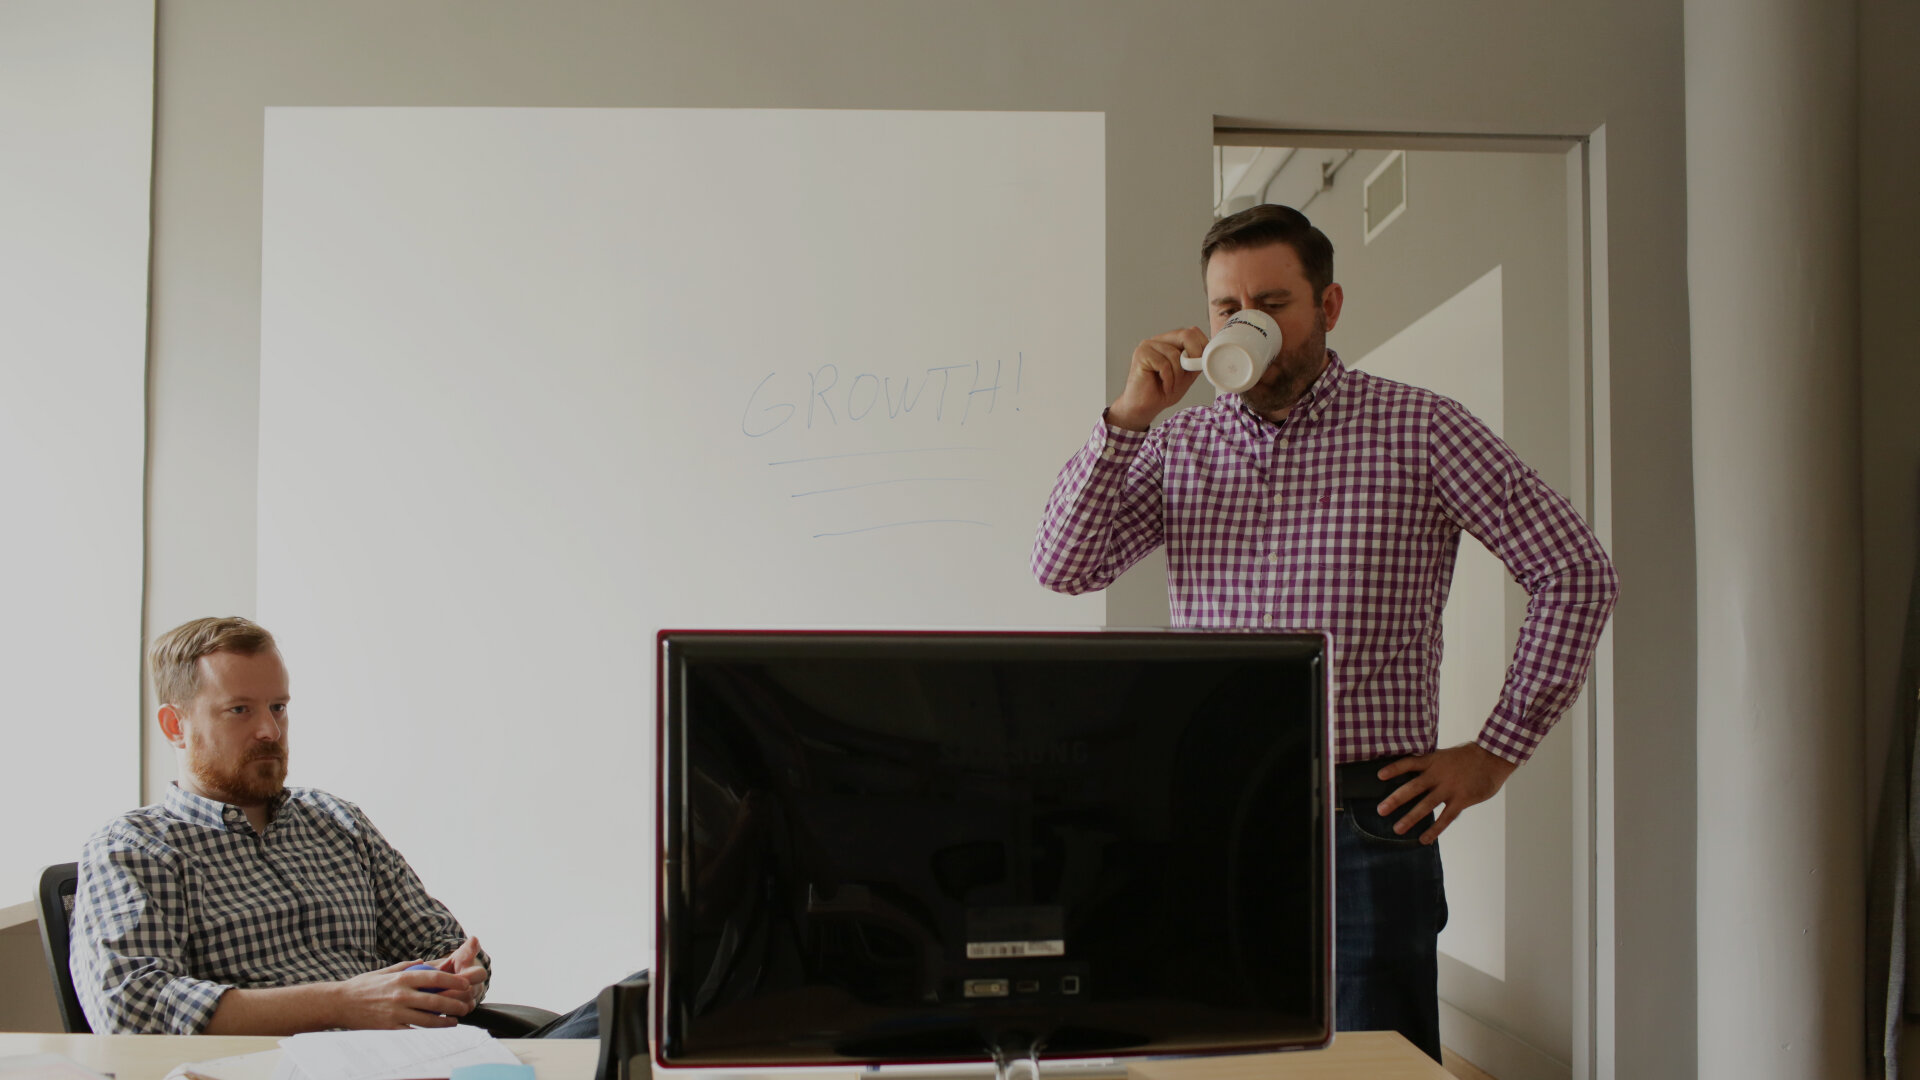
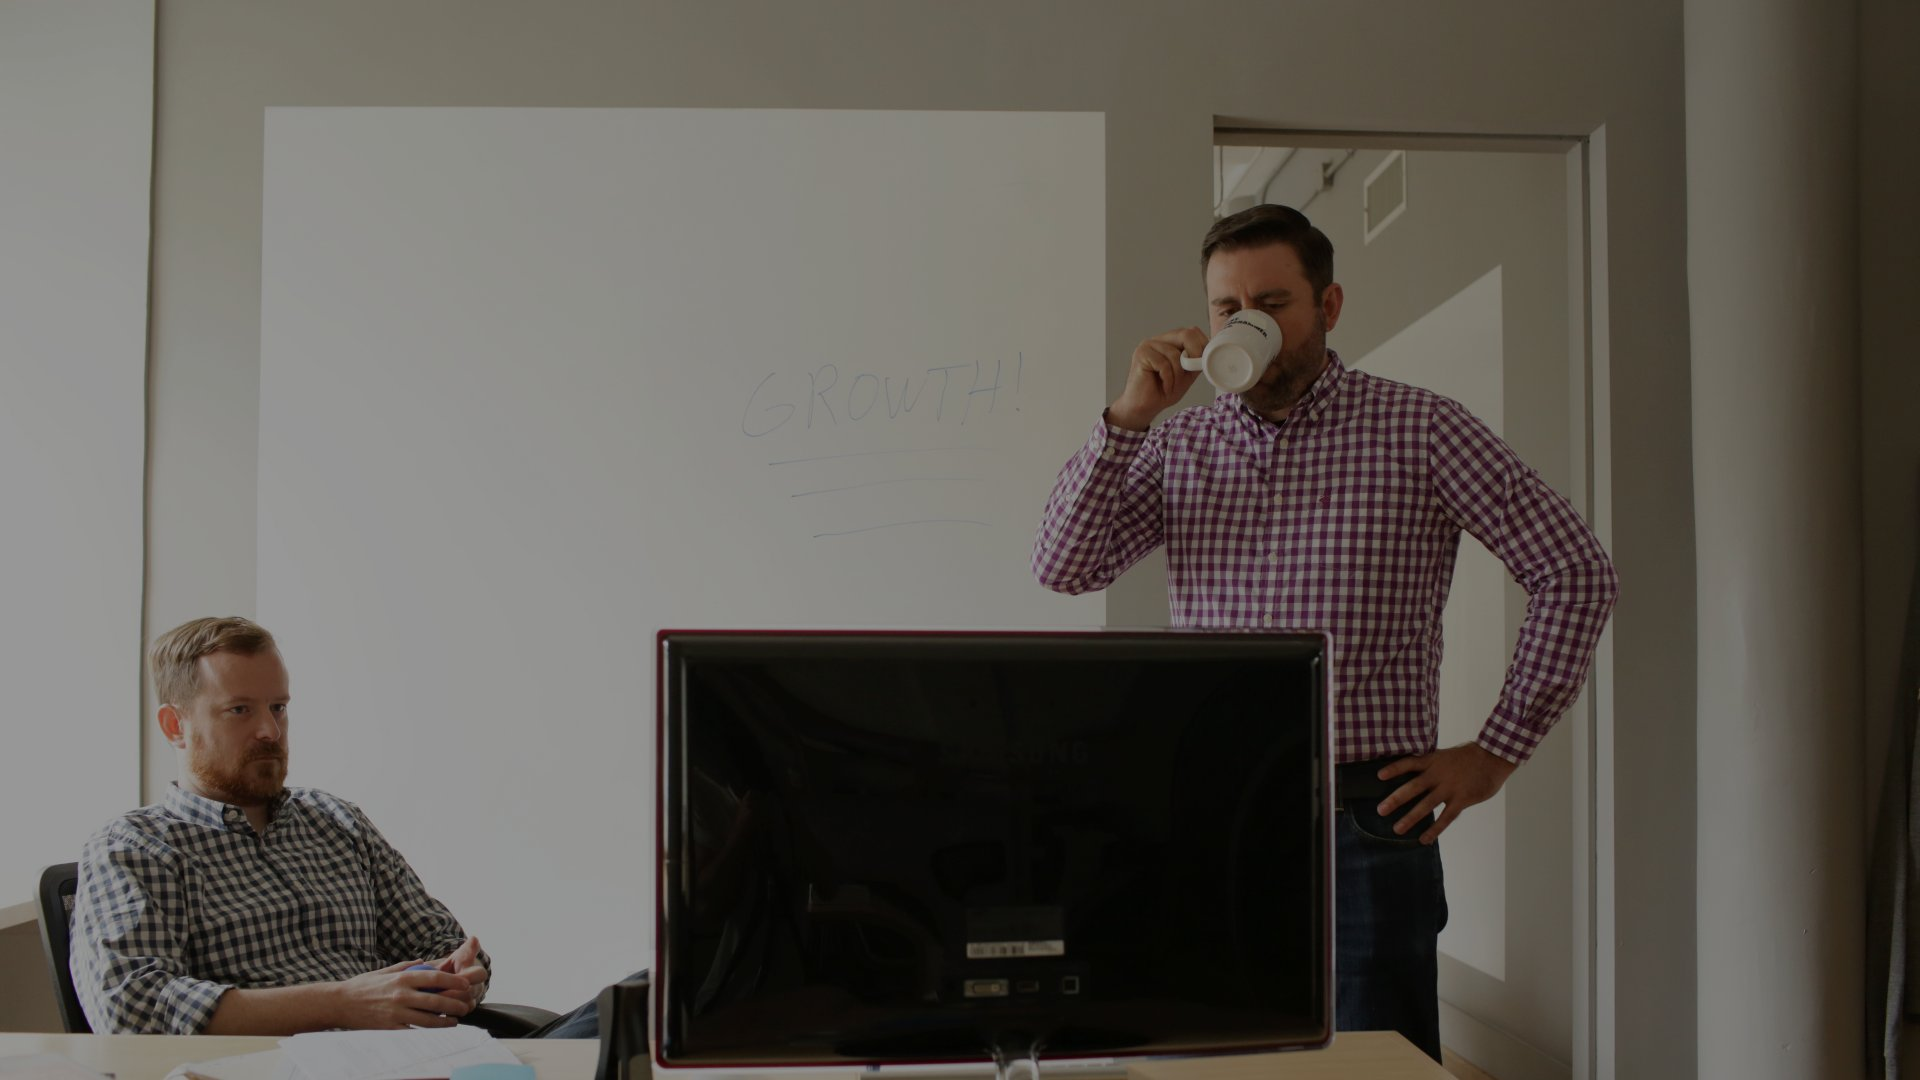
1) Added OpenGraph graphic and tags. 2) Tweaks to carousel darkness. 3) Couple copy punchups.

diff --git a/adcap_website/theme/templates/index.html b/adcap_website/theme/templates/index.html
@@ -34,11 +34,11 @@
           <div class="container caption-hero light-color">
             <div class="inner-caption">
                   <h2 class="h2">Stage Agnostic Punk</h2>
-                  <p class="lead">A bold, new attitude towards an old asset class</p>
+                  <p class="lead">A bold, new attitude towards your favorite asset class</p>
                   <br />
                   <div><a class="btn btn-md btn-white-line" href="#about">Learn More</a><span
                           class="btn-space-10 xs-hidden"></span><a class="btn
-                          btn-md btn-white xs-hidden" href="/music">Listen Now</a></div>
+                          btn-md btn-white xs-hidden" href="/music/">Listen Now</a></div>
                 </div>
               </div>
            </div>
@@ -114,7 +114,7 @@
       <p>Can your investors write code? Can they even play guitar?</p>
       <p>Oh. They can. That's cool.</p>
       <p>Maybe you can still listen to us sometime.</p>
-      <div class="spacer-15"></div><a class="btn-link-a">Listen Now</a>
+      <div class="spacer-15"></div><a class="btn-link-a" href="/music/">Listen Now</a>
     </div><!-- End Welcome Content -->
     <!-- Skills -->
     <div class="col-md-5">

diff --git a/adcap_website/theme/templates/base.html b/adcap_website/theme/templates/base.html
@@ -10,6 +10,13 @@
   <meta name="viewport" content="width=device-width, initial-scale=1.0, maximum-scale=1.0" />
   <!--[if IE]><meta http-equiv='X-UA-Compatible' content='IE=edge,chrome=1'><![endif]-->
 
+  <meta property="og:title" content="MVP, the debut release from Adventure Capitalists" />
+  <meta property="og:site_name" content="Adventure Capitalists" />
+  <meta property="og:description" content="Venture capital has a brand new sound
+  with Adventure Capitalists, a pair producing catchy punk songs lampooning the
+  startup game." />
+  <meta property="og:image" content="{% static "img/mvp_release-1200x1200.jpg" %}" />
+
   <link rel="shortcut icon" type="image/x-icon" href="{% static "img/favicon.ico" %}">
   <link rel="icon" type="image/png" href="{% static "img/favicon.ico" %}">
   <link rel="apple-touch-icon" href="{% static "img/favicon.ico" %}">
@@ -18,6 +25,7 @@
   <link rel="alternate" type="application/rss+xml" title="RSS" href="{% url "blog_post_feed" "rss" %}">
   <link rel="alternate" type="application/atom+xml" title="Atom" href="{% url "blog_post_feed" "atom" %}">
 {% endifinstalled %}
+
 
 {% compress css %}
   <link href="{% static "css/style.css" %}" rel="stylesheet" type="text/css" />

diff --git a/adcap_website/theme/static/css/style.css b/adcap_website/theme/static/css/style.css
@@ -2288,7 +2288,7 @@ height:100%;
 }
 
 .bg-img5 {
-    background-image: url("../img/full/hero-power-1920x1280.jpg");
+    background-image: url("../img/full/hero-champagne-1920x1280.jpg");
 }
 
 .bg-img6 {
